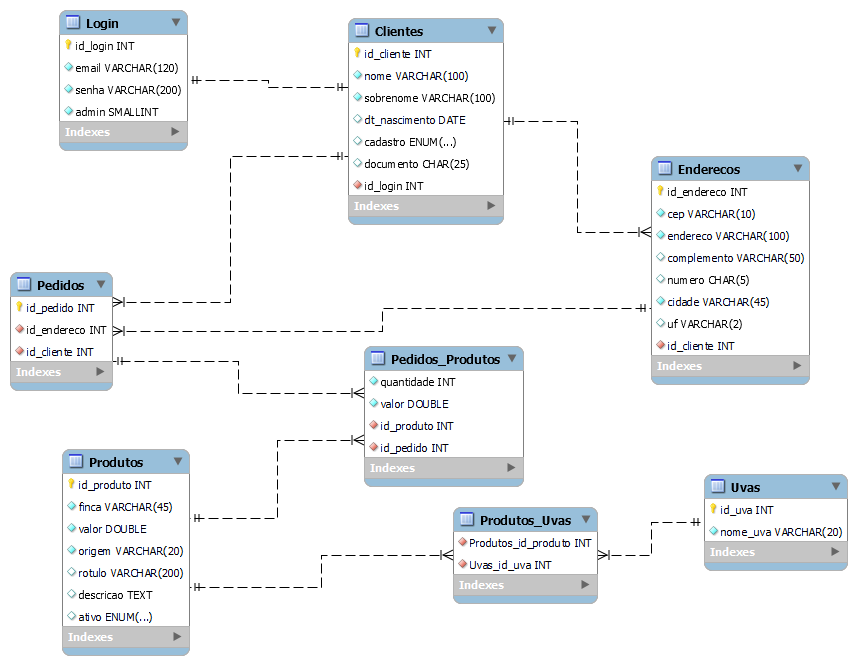
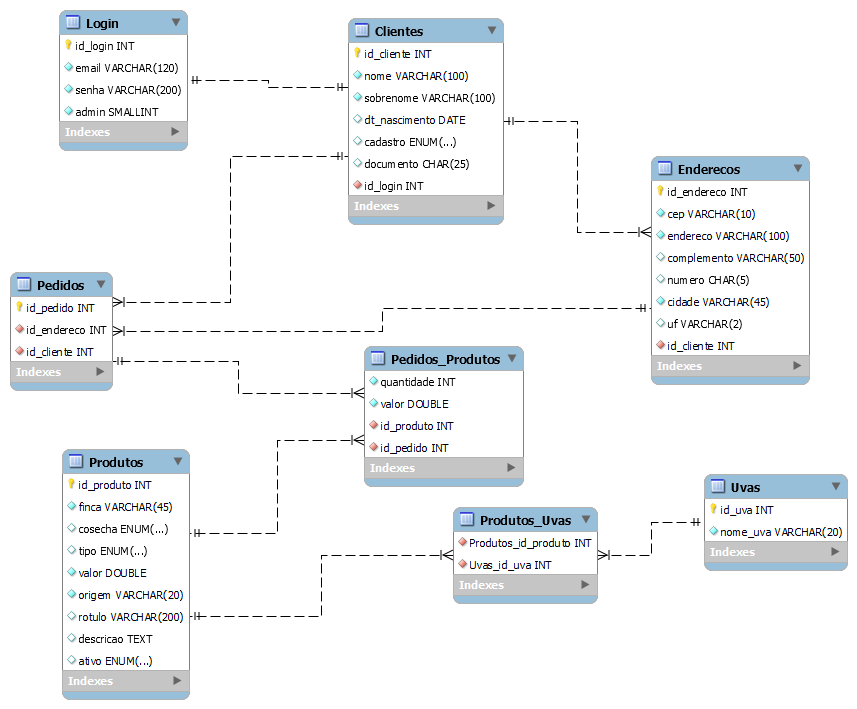
corrigindo bug view controller Produtos, checkoutController

diff --git a/Controllers/checkoutController.js b/Controllers/checkoutController.js
@@ -29,7 +29,6 @@ const produtos = [
 
 const controller = {
     carrinho: (req, res, next) =>{
-        var produtosArray = [];
         if(!req.session.carrinho){
             res.render("carrinho", {
                 title: title,
@@ -39,34 +38,35 @@ const controller = {
 
         else{
             let carrinho = req.session.carrinho;
-            
+            const produtosArray = [];
             carrinho.forEach(item =>{
-                 Produto.findByPk(item.id,{
-                    include: [{model: Uva, as:"uvas"}]
+                let resultado = Produto.findByPk(item.id,{
+                    include: [{model: Uva, as: "uvas"}]
                 }).then(resultado =>{
-                    let uvas = []
-                    resultado.uvas.forEach(uva =>{
-                        uvas.push(uva.dataValues.nome_uva)
-                    });
-
-                    let vinho = {
-                        ...resultado.dataValues,
+                    let vinho = {...resultado.dataValues,
                         qtd: item.quantidade,
-                        total: ()=>this.valor*this.qtd,
+                        total: ()=>this.valor*this.qtd
+                    };
+                    let uvas = [];
+                    resultado.uvas.forEach(uva=>{
+                        uvas.push(uva.dataValues.nome_uva);
+                    });
+                    vinho = {
+                        ...vinho,
                         uvas
                     };
-                    console.log(vinho);
+
                     produtosArray.push(vinho);
-                    //console.log(produtosArray);
-                    res.render("carrinho", {
+                    //console.log(vinho);
+                    res.render("carrinho",{
                         title: title,
                         produtos: produtosArray
                     })
                 });
-                
             });
+            
+            
         }
-        
     },
     pagar: (req, res, next) => {
         res.render("pagamento", {

diff --git a/Controllers/produtosController.js b/Controllers/produtosController.js
@@ -113,26 +113,29 @@ const controller = {
     },
     detalhe: async (req, res, next) =>{
         
-        let {id} = req.params
-        //let produto = model.buscarVinhoID(req.params.id);
-        
+        let {id} = req.params;
+        let vinho = {};
         let produto = await Produto.findByPk(id,{
             include: [{model: Uva, as: 'uvas'}],
         }).then(resultado =>{
             let uvas=[];
             resultado.uvas.forEach(uva =>{
-                console.log(uva.dataValues.nome_uva);
+                //console.log(uva.dataValues.nome_uva);
                 uvas.push(uva.dataValues.nome_uva);
             });
-            let vinho = {
+             vinho = {
                 ...resultado.dataValues,
                 uvas
             }
-            res.render("detalheProduto", {
-                title: title,
-                vinho: vinho
-            });
+            console.log("---detalhe Produto----");
+            console.log(vinho);
+            console.log("-----------------------");
+            
         })
+        res.render("detalheProduto", {
+            title: title,
+            vinho: vinho
+        });
     }
 }
 

diff --git a/models/Produto.js b/models/Produto.js
@@ -6,12 +6,15 @@ module.exports = (sequelize, DataType) =>{
             primaryKey: true
         },
         finca: DataType.STRING(45),
+        cosecha: DataType.ENUM('tardia', 'temprana'),
+        tipo: DataType.ENUM('tinto', 'branco', 'rosé', 'frisante'),
+        ano: DataType.STRING(5),
         valor: DataType.DOUBLE,
         origem: DataType.STRING(20),
         rotulo: DataType.STRING(200),
         ativo: DataType.ENUM('ativo', 'inativo'),
         descricao: DataType.TEXT
-    }, {},
+    },
     {
         tablename: 'Produtos',
         timestamps: false
